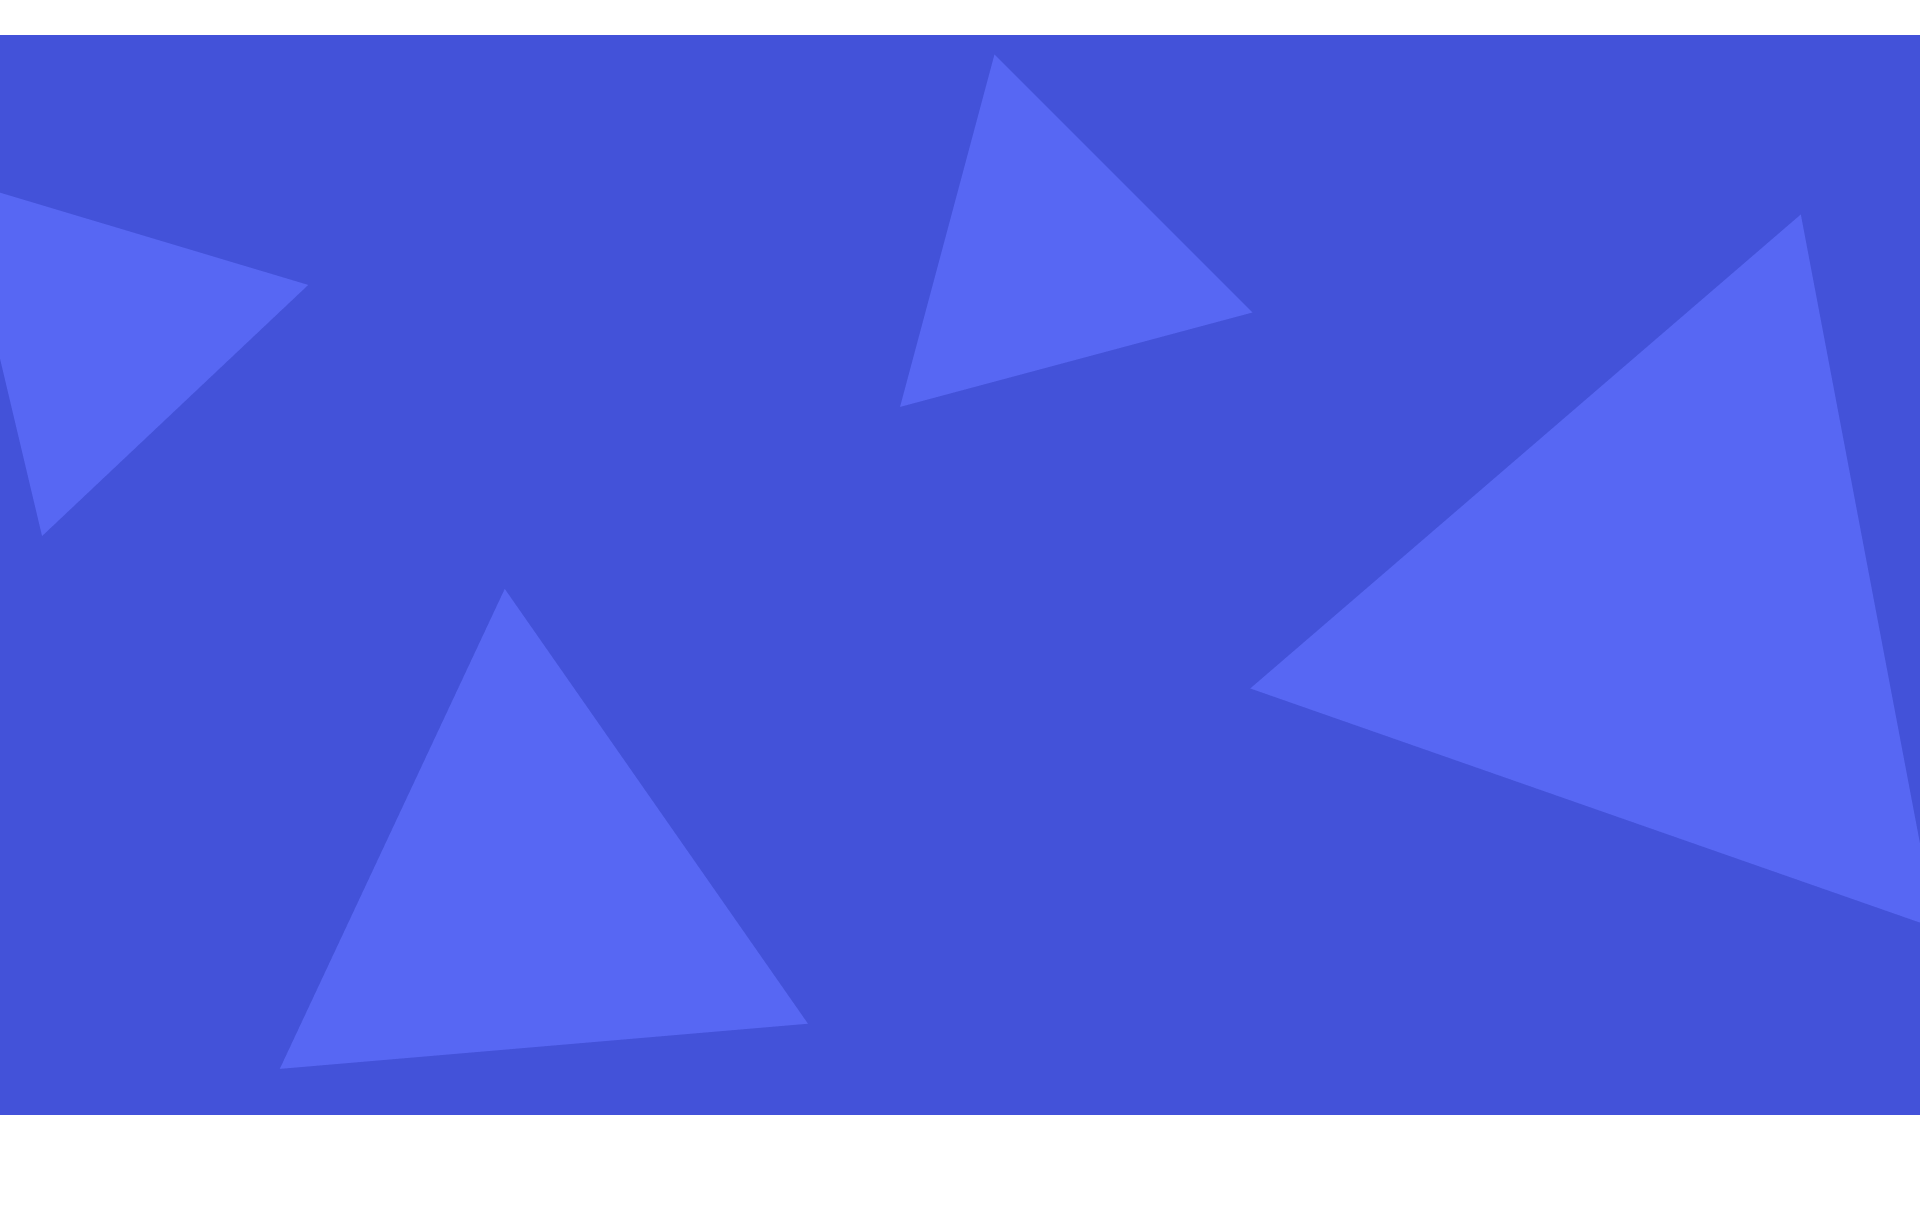
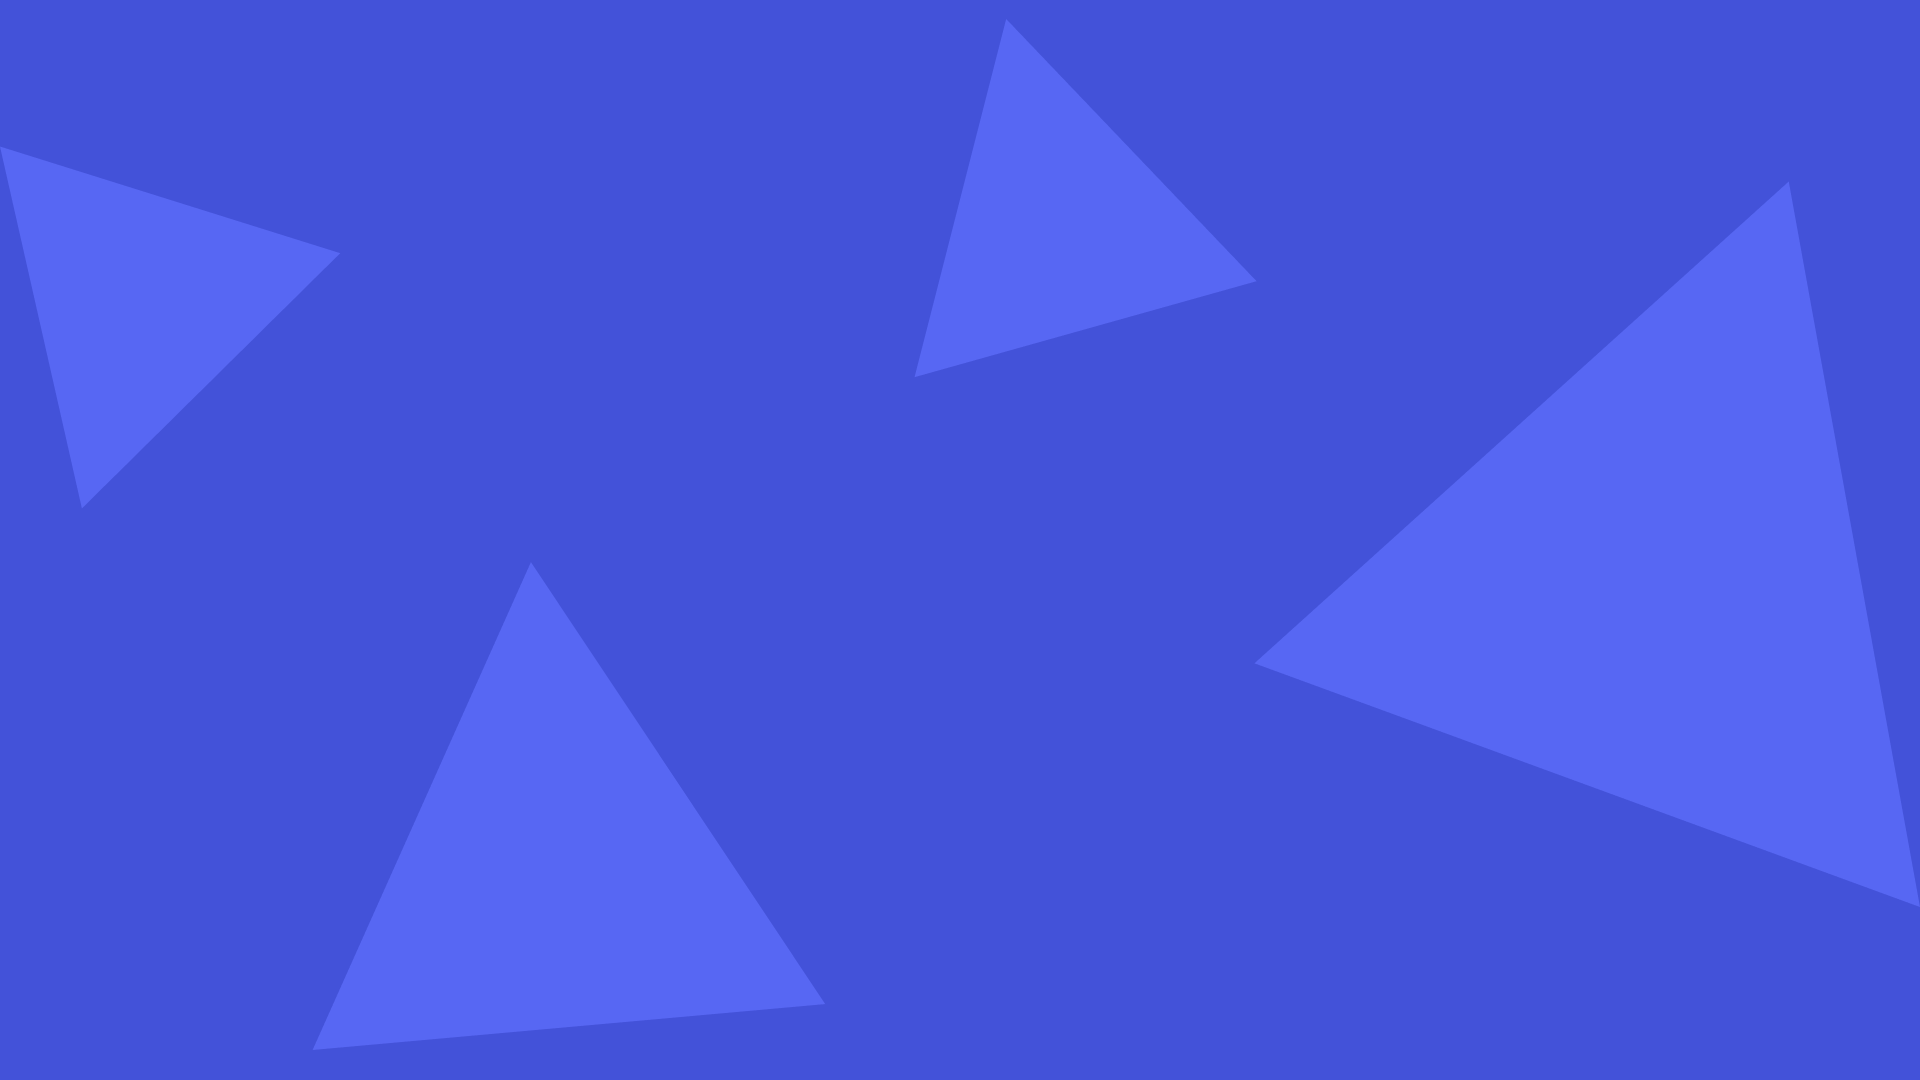
start second screen commit

diff --git a/css/main.css b/css/main.css
@@ -145,3 +145,28 @@ body {
 	top: 940px;
 	position: absolute;
 }
+
+.second_screen {
+	background-image: url('../img/blue.jpg');
+	position: absolute;
+	top: 1024px;
+	left: 0px;
+	width: 100%;
+	height: 1024px;
+  }
+
+.about_me {
+	font-size: 24px;
+	font-weight: 300;
+	position: absolute;
+	top: 171px;
+	left: 911px;
+}
+
+.about_me_main {
+	font-size: 36px;
+	font-weight: 700;
+	position: absolute;
+	top: 200px;
+	left: 731px;
+}
